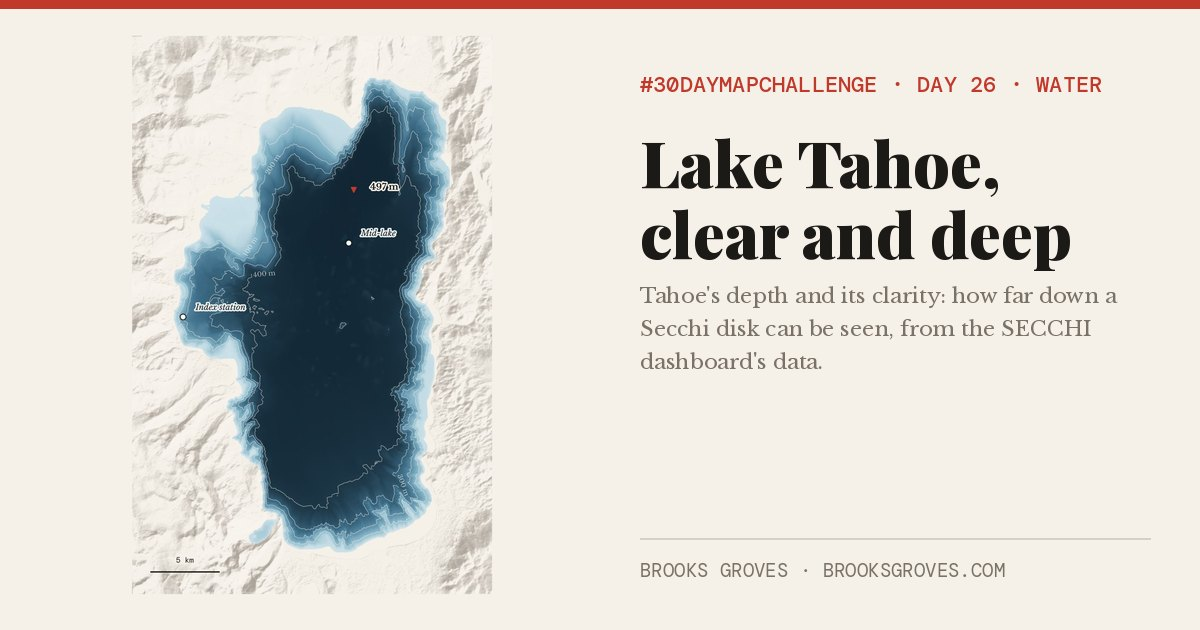
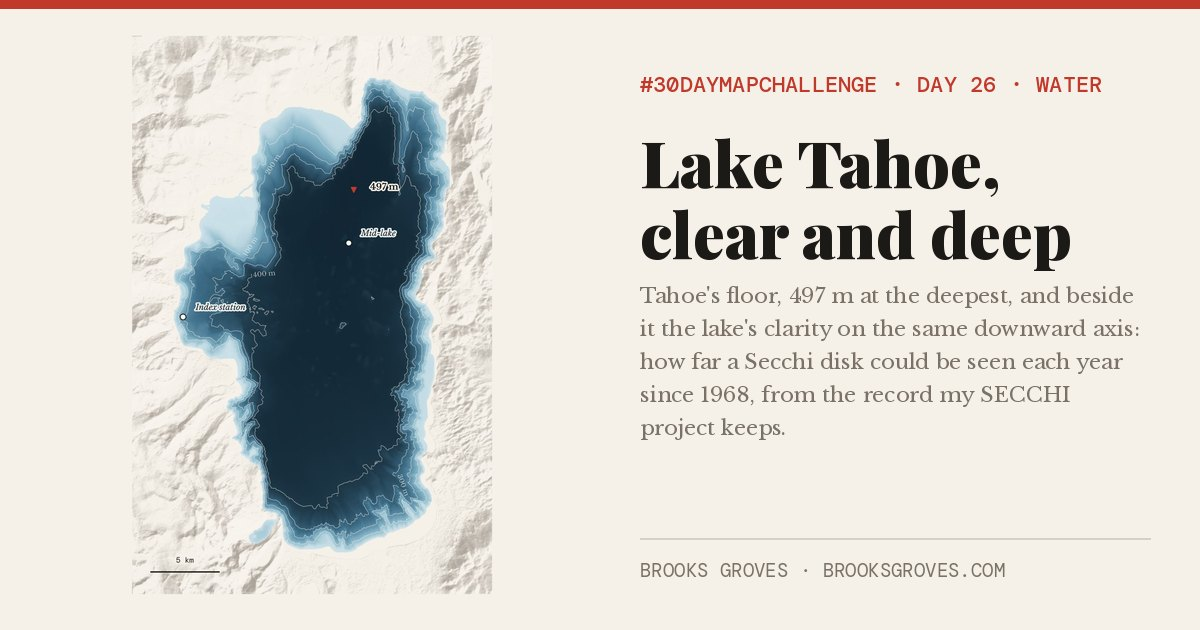
2026 plan: Day 26 entry brought up to date; stills noted for 13 and 14

Changed region(s): [[0.5242, 0.5127, 0.9558, 0.6333], [0.5858, 0.4524, 0.9558, 0.4825], [0.5242, 0.6635, 0.6475, 0.6937]]

diff --git a/2026/day-26-water/README.md b/2026/day-26-water/README.md
@@ -5,16 +5,16 @@
 
 ## Lake Tahoe, clear and deep
 
-Tahoe's depth and its clarity: how far down a Secchi disk can be seen, from the SECCHI dashboard's data.
+Tahoe's floor, 497 m at the deepest, and beside it the lake's clarity on the same downward axis: how far a Secchi disk could be seen each year since 1968, from the record my SECCHI project keeps.
 
 **Data**
 
-- [SECCHI (TEON + USGS)](https://brooksgroves.com/secchi)
-- [USGS Lake Tahoe bathymetry](https://www.usgs.gov/)
+- [UC Davis TERC Secchi record (EDI, CC BY 4.0), via SECCHI](https://brooksgroves.com/secchi/)
+- [USGS DDS-55 Lake Tahoe bathymetry](https://pubs.usgs.gov/dds/dds-55/)
 
-**Tools:** Python, forge3d
+**Tools:** Python, rasterio, matplotlib
 
-**Prep:** Depth drafted from the 1998 USGS multibeam grid. Still to add: clarity (Secchi depth) from the SECCHI project.
+**Prep:** Drafted: depth from the 1998 USGS multibeam grid, clarity from TERC's index station.
 
 **Go deeper**
 

diff --git a/2026/day-14-borgesian-map/README.md b/2026/day-14-borgesian-map/README.md
@@ -13,7 +13,7 @@ Borges's map the size of the empire, made literal. Big Creek's watershed at full
 
 **Tools:** HTML, canvas
 
-**Prep:** Drafted as a page (day-14-borgesian-map/index.html): the basin and streams from NLDI at 96 CSS px to the inch, an odometer, a minimap and three speeds. Needs a still for social posts.
+**Prep:** Drafted as a page (day-14-borgesian-map/index.html): the basin and streams from NLDI at 96 CSS px to the inch, an odometer, a minimap and three speeds. A still from the live page is in out/.
 
 **Go deeper**
 

diff --git a/2026/day-13-interactions/README.md b/2026/day-13-interactions/README.md
@@ -13,7 +13,7 @@ Click anywhere in the Sierra and watch where the water goes, river by river, to 
 
 **Tools:** MapLibre GL JS, NLDI API
 
-**Prep:** Drafted as an interactive page (day-13-interactions/index.html). Needs a still image for social posts.
+**Prep:** Drafted as an interactive page (day-13-interactions/index.html), with a still from the live page for posts.
 
 **Go deeper**
 
